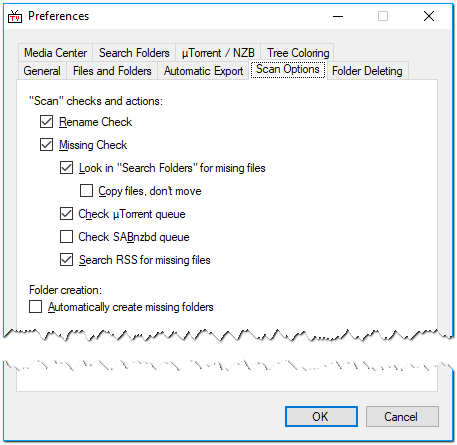
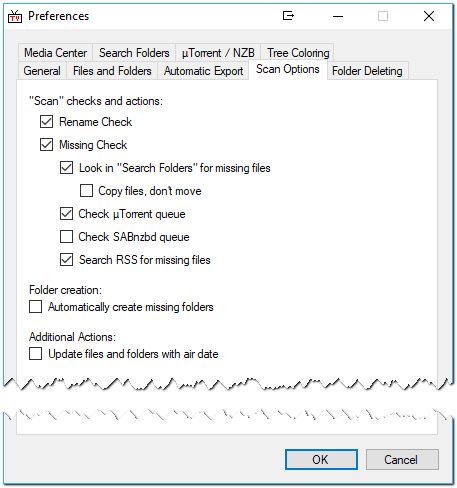
Update for epoch date

Changed region(s): [[0.0, 0.0, 1.0, 1.0], [0.2144, 0.7888, 0.2451, 0.8472], [0.4289, 0.818, 0.4595, 0.8472]]

diff --git a/_manual/options/preferences-scan-options.md b/_manual/options/preferences-scan-options.md
@@ -6,6 +6,8 @@ This tab in conjunction with data from the _**µTorrent / NZB**_ tab controls th
 
 The settings in here are more or less self explanatory, however remember that the _**µTorrent / NZB**_ tab must be populated before the µTorrent, SABnzdb and RSS options can be used.
 
+**NOTE:**{:style="color:red;"} If you use a NAS device as your media library and it is Linux based it has an epoch date of 01/01/1970&nbsp;00:00. Files cannot have a date/time-stamp earlier than this. If you have any TV Show episodes whose original release date was earlier than this and you have the "Update files and folders with air date" box ticked they will be set to 01/01/1970&nbsp;00:00 to prevent repeated detection and attempts to change during scans.
+
 | *Defaults* | | |
 | Scan checks | Rename Check | _**Ticked**_ |
 | and actions | Missing Check | _**Ticked**_ |
@@ -15,6 +17,7 @@ The settings in here are more or less self explanatory, however remember that th
 | | Check SABnzdb queue | _**Un-ticked**_ |
 | | Search RSS for missing files | _**Un-ticked**_ |
 | Folder Creation | Automatically create missing folders | _**Un-ticked**_ |
+| Additional Actions | Update files and folders with air date | _**Un-ticked**_ |
 
 {:.toplink}
 [Return to Top]()
